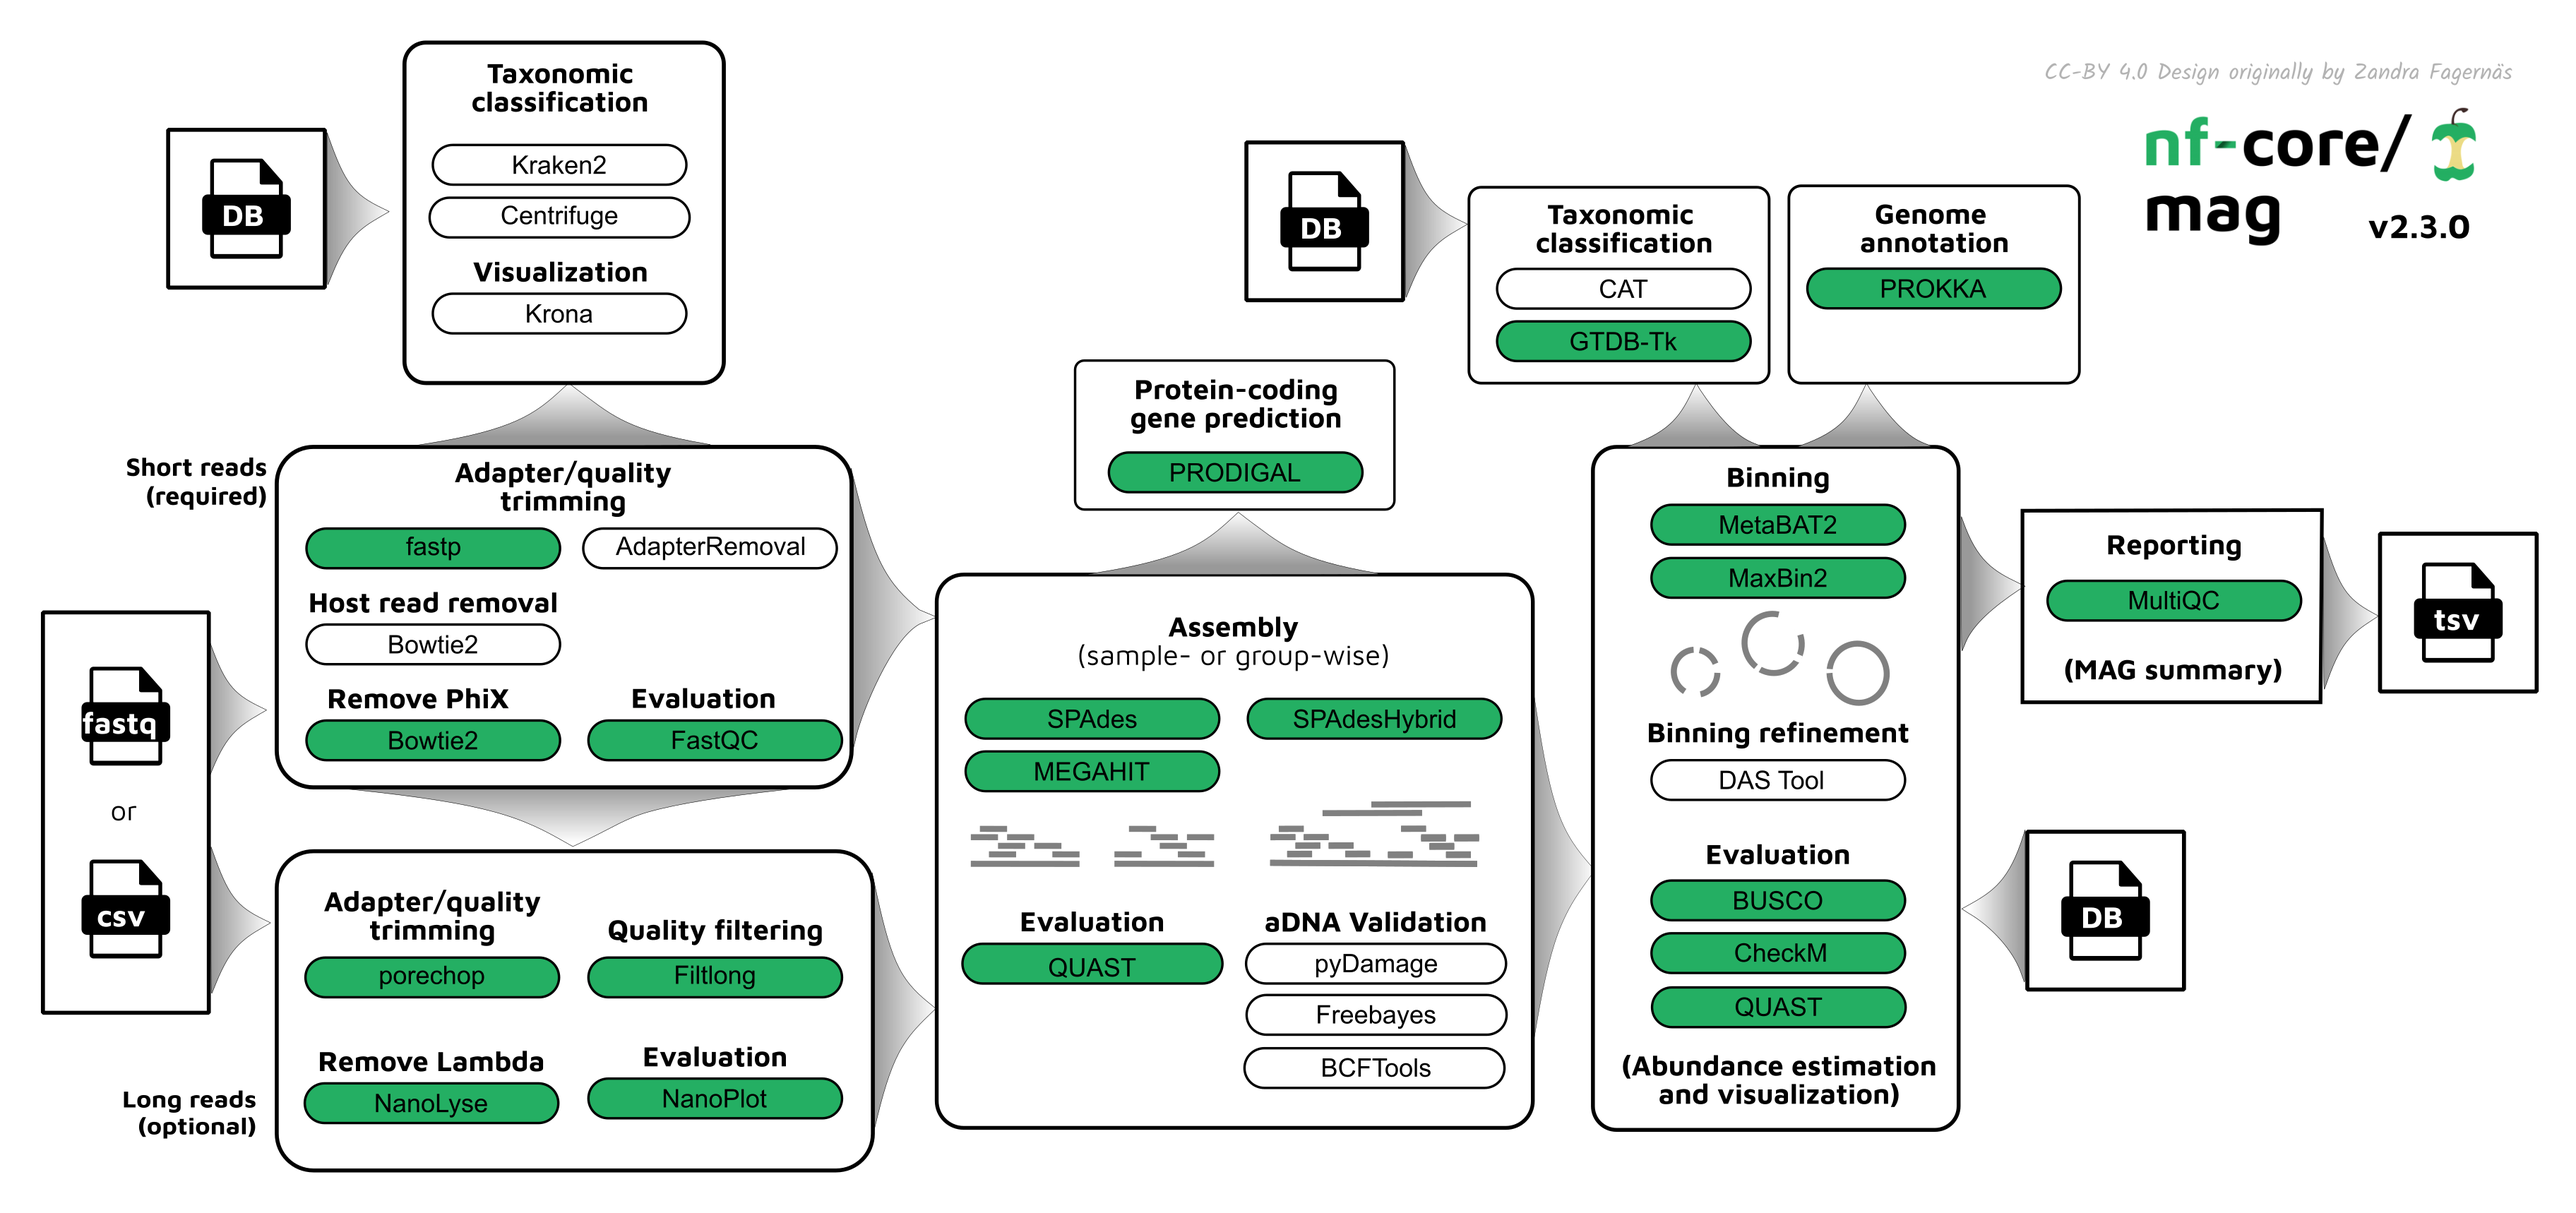
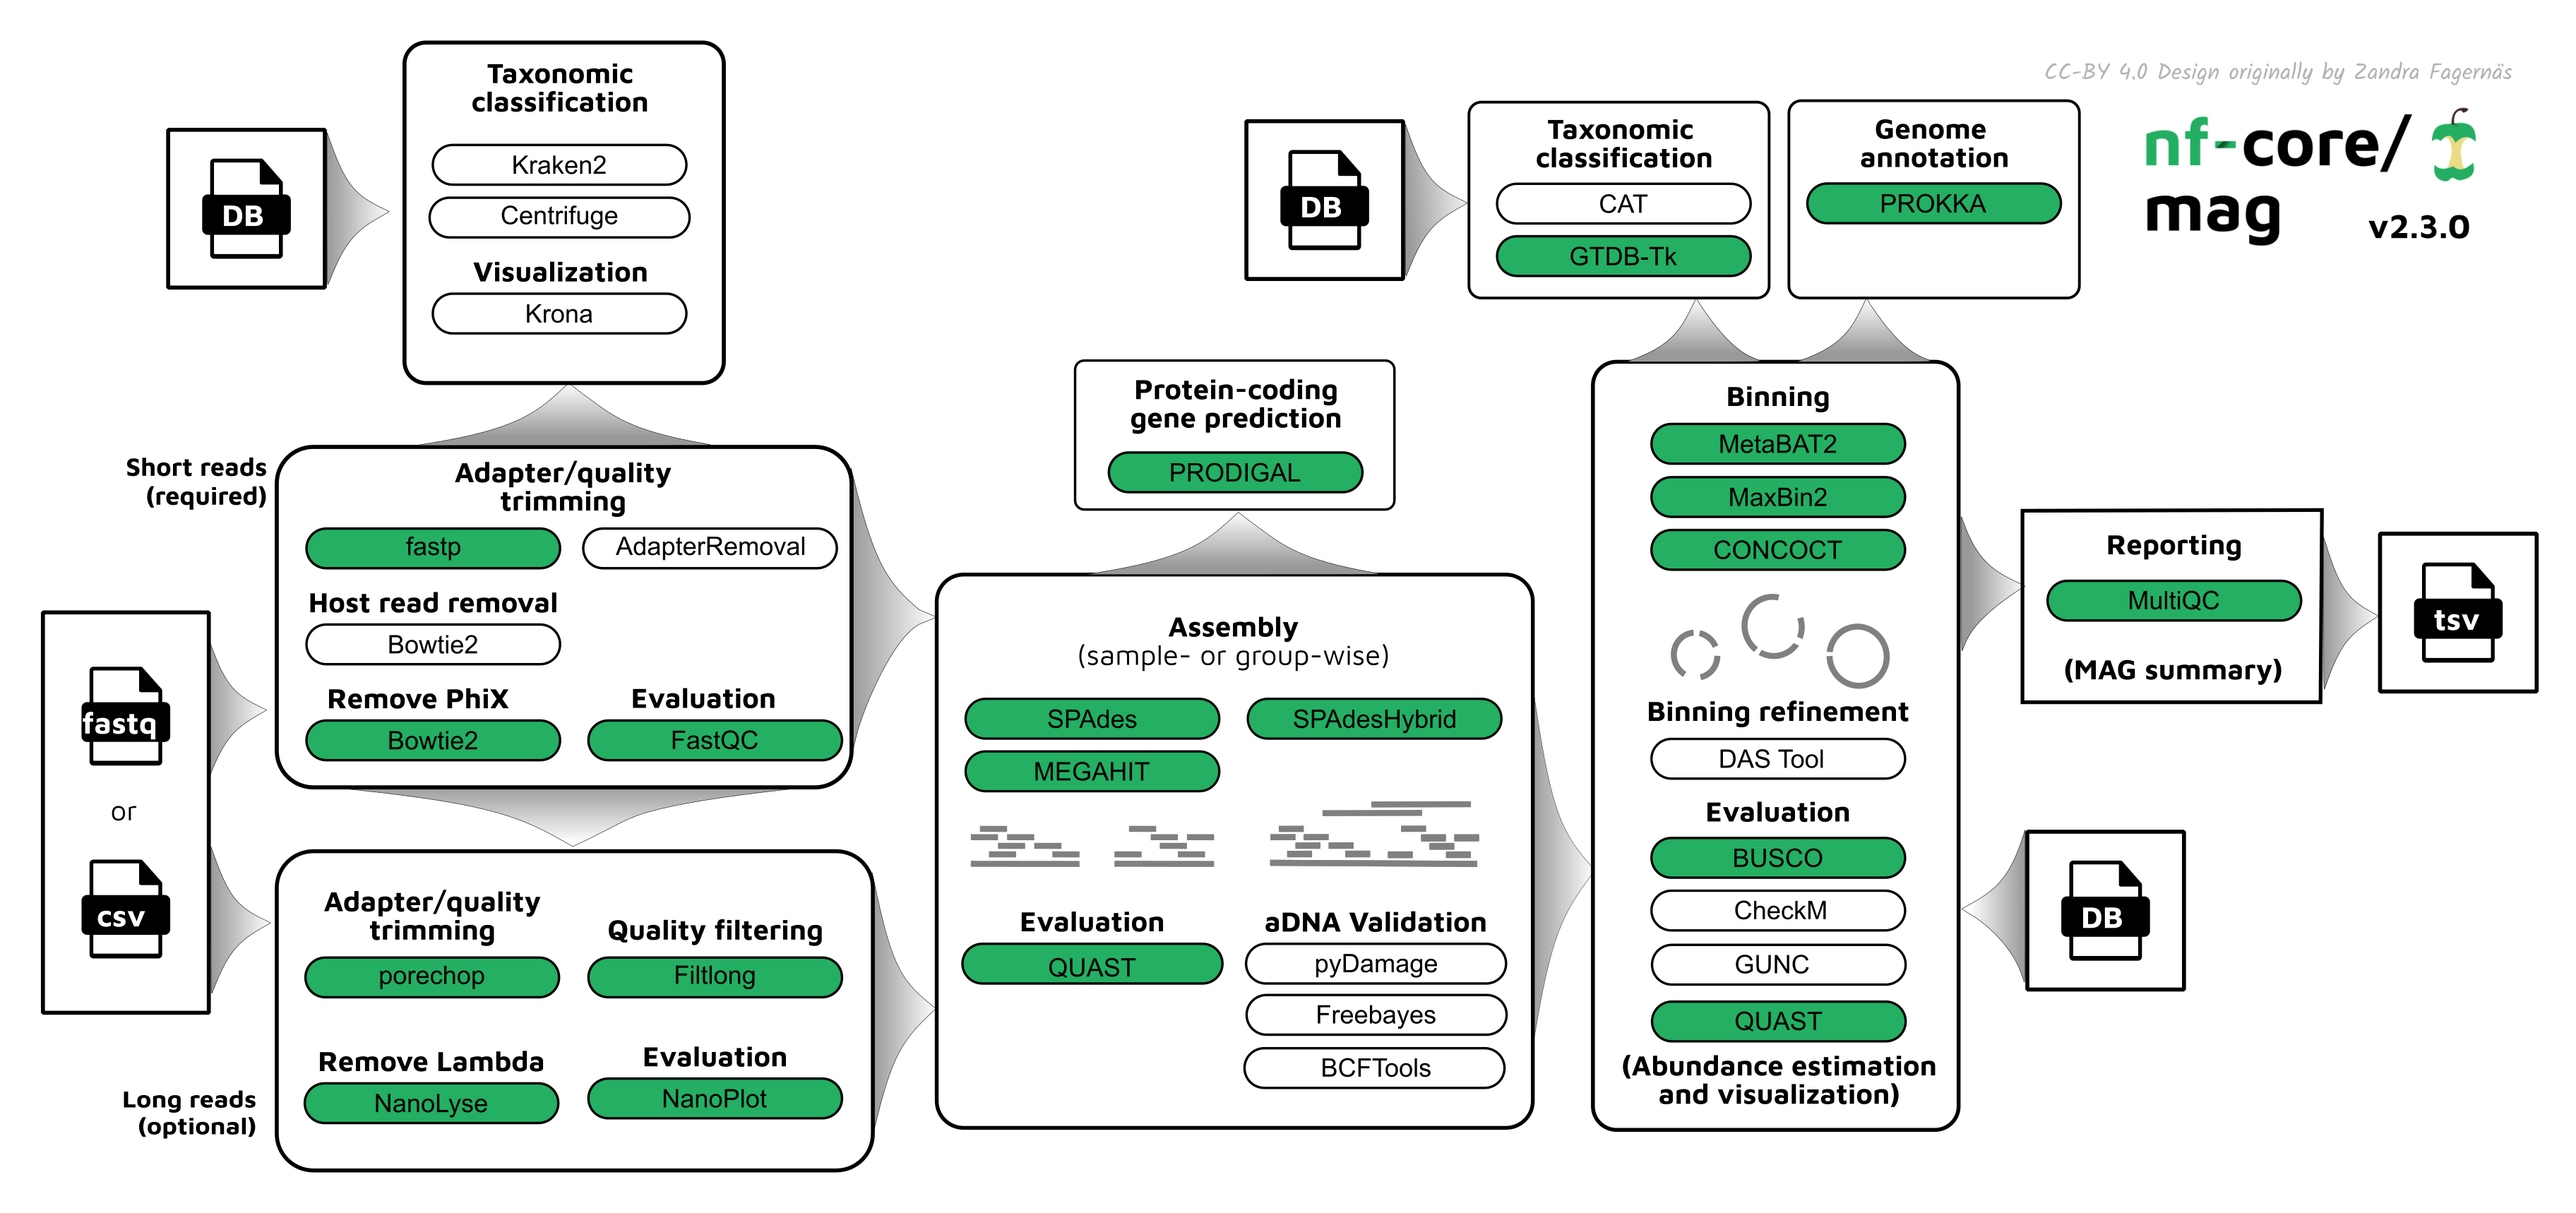
update docs

Changed region(s): [[0.4688, 0.0925, 0.8125, 0.8638]]

diff --git a/docs/output.md b/docs/output.md
@@ -455,7 +455,9 @@ Besides the reference files or output files created by BUSCO, the following summ
 
 </details>
 
-### QC for metagenome assembled genomes with CheckM
+### QC for metagenome assembled genomes
+
+#### CheckM
 
 [CheckM](https://ecogenomics.github.io/CheckM/) CheckM provides a set of tools for assessing the quality of genomes recovered from isolates, single cells, or metagenomes. It provides robust estimates of genome completeness and contamination by using collocated sets of genes that are ubiquitous and single-copy within a phylogenetic lineage
 
@@ -482,6 +484,28 @@ If the parameter `--save_checkm_reference` is set, additionally the used the Che
     - `checkm_data_2015_01_16/*`: a range of directories and files required for CheckM to run.
 
 </details>
+
+#### GUNC
+
+[Genome UNClutterer (GUNC)](https://grp-bork.embl-community.io/gunc/index.html) is a tool for detection of chimerism and contamination in prokaryotic genomes resulting from mis-binning of genomic contigs from unrelated lineages. It does so by applying an entropy based score on taxonomic assignment and contig location of all genes in a genome. It is generally considered as a additional complement to CheckM results.
+
+<details markdown="1">
+<summary>Output files</summary>
+
+- `GenomeBinning/QC/gunc_summary.tsv`
+- `GenomeBinning/QC/gunc_checkm_summary.tsv`
+- `[gunc-database].dmnd`
+- `GUNC/`
+  - `raw/`
+    - `[assembler]-[binner]-[sample/group]/GUNC_checkM.merged.tsv`: Per sample GUNC [output](https://grp-bork.embl-community.io/gunc/output.html) containing with taxonomic and completeness QC statistics.
+  - `checkmmerged/`
+    - `[assembler]-[binner]-[sample/group]/GUNC.progenomes_2.1.maxCSS_level.tsv`: Per sample GUNC output merged with output from [CheckM](#checkm)
+
+</details>
+
+GUNC will be run if specified with `--run_gunc` as a standalone, unless CheckM is also activate via `--qc_tool 'checkm'`, in which case GUNC output will be merged with the CheckM output using `gunc merge_checkm`.
+
+If `--gunc_save_db` is specified, the output directory will also contain the requested database (progenomes, or GTDB) in DIAMOND format.
 
 ## Taxonomic classification of binned genomes
 

diff --git a/README.md b/README.md
@@ -34,7 +34,7 @@ The pipeline then:
 - performs assembly using [MEGAHIT](https://github.com/voutcn/megahit) and [SPAdes](http://cab.spbu.ru/software/spades/), and checks their quality using [Quast](http://quast.sourceforge.net/quast)
 - (optionally) performs ancient DNA assembly validation using [PyDamage](https://github.com/maxibor/pydamage) and contig consensus sequence recalling with [Freebayes](https://github.com/freebayes/freebayes) and [BCFtools](http://samtools.github.io/bcftools/bcftools.html)
 - predicts protein-coding genes for the assemblies using [Prodigal](https://github.com/hyattpd/Prodigal)
-- performs metagenome binning using [MetaBAT2](https://bitbucket.org/berkeleylab/metabat/src/master/), [MaxBin2](https://sourceforge.net/projects/maxbin2/), and/or with [CONCOCT](https://github.com/BinPro/CONCOCT), and checks the quality of the genome bins using [Busco](https://busco.ezlab.org/) or [CheckM](https://ecogenomics.github.io/CheckM/).
+- performs metagenome binning using [MetaBAT2](https://bitbucket.org/berkeleylab/metabat/src/master/), [MaxBin2](https://sourceforge.net/projects/maxbin2/), and/or with [CONCOCT](https://github.com/BinPro/CONCOCT), and checks the quality of the genome bins using [Busco](https://busco.ezlab.org/), or [CheckM](https://ecogenomics.github.io/CheckM/), and optionally [GUNC](https://grp-bork.embl-community.io/gunc/).
 - optionally refines bins with [DAS Tool](https://github.com/cmks/DAS_Tool)
 - assigns taxonomy to bins using [GTDB-Tk](https://github.com/Ecogenomics/GTDBTk) and/or [CAT](https://github.com/dutilh/CAT)
 
